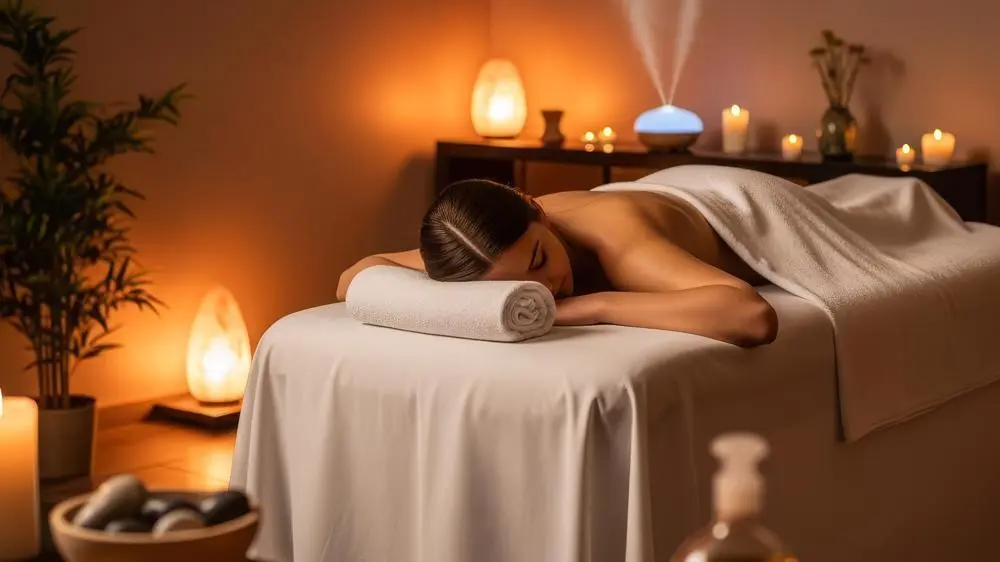
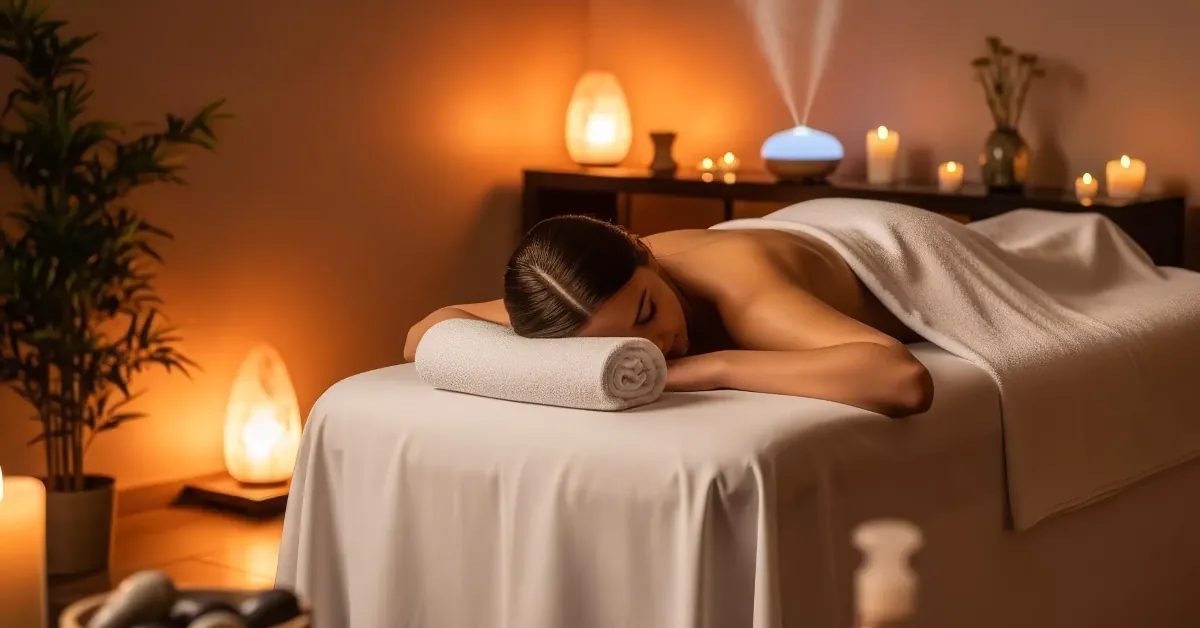
optimisation og

diff --git a/layouts/_default/baseof.html b/layouts/_default/baseof.html
@@ -15,8 +15,13 @@
     <meta property="og:title" content="{{ .Site.Title }}">
     <meta property="og:description" content="{{ with .Site.Params.description }}{{ . }}{{ end }}">
     <meta property="og:image" content='{{ "images/2-1-hydrotherapie-eaux-vives-accueil-og.webp" | absURL }}'>
+    <meta property="og:image:width" content="1200">
+    <meta property="og:image:height" content="628">
+    <meta property="og:image:alt" content="{{ .Site.Title }}">
     <meta property="og:locale" content="{{ .Site.LanguageCode }}">
     <meta property="og:type" content="website">
+    <meta property="og:site_name" content="{{ .Site.Title }}">
+    <meta name="twitter:card" content="summary_large_image">
     <link rel="alternate" type="application/ld+json" href='{{ "hydrotherapie-eaux-vives.jsonld" | relURL }}'>
 </head>
 
